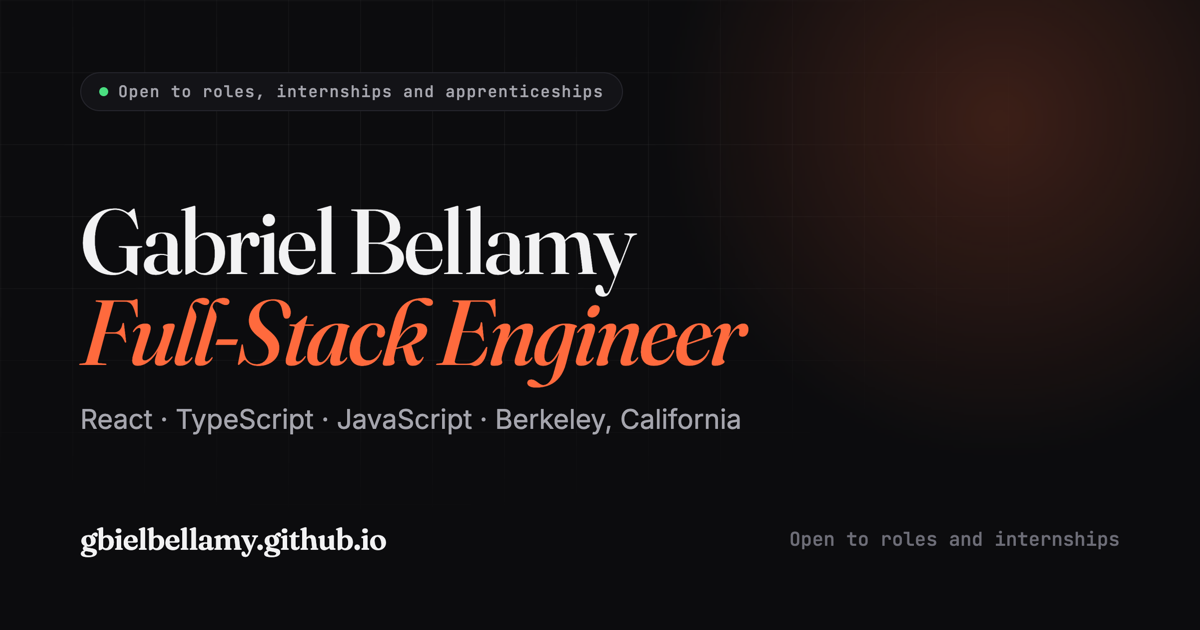
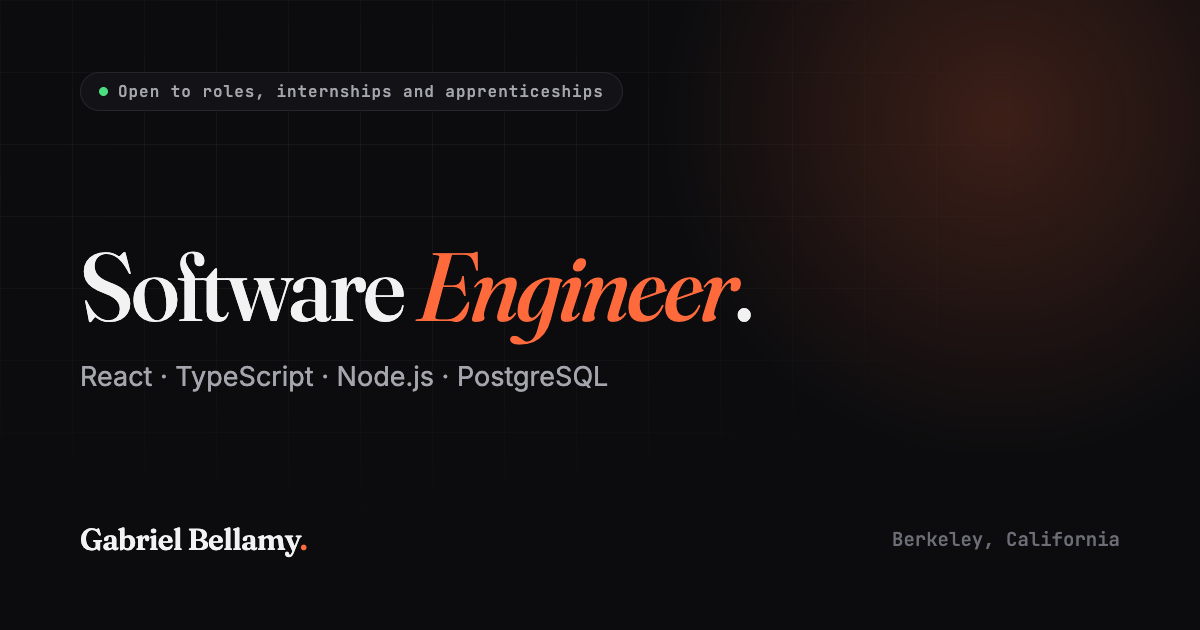
Lead with Software Engineer, keeping full-stack in the body

Changed region(s): [[0.0617, 0.3317, 0.6475, 0.6937], [0.0617, 0.8143, 0.3392, 0.9048], [0.6475, 0.8444, 0.925, 0.8746]]

diff --git a/index.html b/index.html
@@ -4,16 +4,16 @@
   <meta charset="UTF-8" />
   <meta name="viewport" content="width=device-width, initial-scale=1.0" />
 
-  <title>Gabriel Bellamy, Full-Stack Engineer</title>
-  <meta name="description" content="Gabriel Bellamy is a full-stack engineer in Berkeley, California, building web applications with JavaScript, TypeScript and React. Over 15 years in customer operations and quality assurance behind the code. Open to roles, internships and apprenticeships." />
+  <title>Gabriel Bellamy, Software Engineer</title>
+  <meta name="description" content="Gabriel Bellamy is a software engineer in Berkeley, California, building web applications with JavaScript, TypeScript and React. Over 15 years in customer operations and quality assurance behind the code. Open to roles, internships and apprenticeships." />
   <meta name="author" content="Gabriel Bellamy" />
   <link rel="canonical" href="https://gbielbellamy.github.io/" />
 
   <!-- Link previews on LinkedIn, Slack, X and messaging apps. -->
   <meta property="og:type" content="website" />
   <meta property="og:url" content="https://gbielbellamy.github.io/" />
-  <meta property="og:title" content="Gabriel Bellamy, Full-Stack Engineer" />
-  <meta property="og:description" content="Full-stack engineer in Berkeley, California. React, TypeScript, and a finished site live for a UC Berkeley research lab. Open to roles, internships and apprenticeships." />
+  <meta property="og:title" content="Gabriel Bellamy, Software Engineer" />
+  <meta property="og:description" content="Software engineer in Berkeley, California. React, TypeScript, and a finished site live for a UC Berkeley research lab. Open to roles, internships and apprenticeships." />
   <meta property="og:image" content="https://gbielbellamy.github.io/assets/og-image.png" />
   <meta property="og:image:width" content="1200" />
   <meta property="og:image:height" content="630" />
@@ -251,15 +251,15 @@
           </p>
 
           <h1 class="hero__title rise" style="--rise-delay: 80ms">
-            Full-Stack Engineer.
+            Software Engineer.
           </h1>
 
           <p class="hero__lede rise" style="--rise-delay: 160ms">
-            I'm <strong>Gabriel Bellamy</strong>, based in Berkeley, California. I build
-            websites and web applications, and I stay with them after they go live.
-            Behind that, over 15 years in customer operations and quality assurance.
-            I'm growing into <strong>full-stack</strong> rather than settling into one
-            half of it.
+            I'm <strong>Gabriel Bellamy</strong>, based in Berkeley, California. After
+            more than 15 years in customer operations and quality assurance at call
+            centres, I'm now pursuing a long-held goal: moving into software
+            engineering. I build websites and web applications <strong>full-stack</strong>,
+            and I stay with them after they go live.
           </p>
 
           <div class="hero__actions rise" style="--rise-delay: 240ms">
